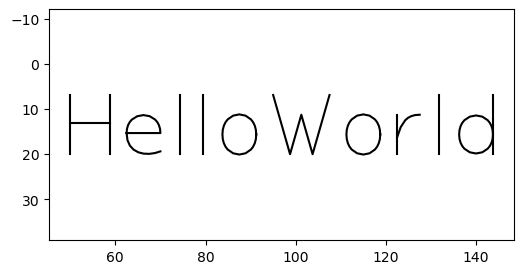
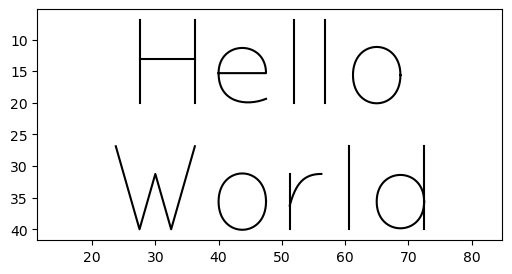
...

diff --git a/svgfont/svgfont.py b/svgfont/svgfont.py
@@ -24,16 +24,15 @@ import os
 
 class Glyph:
     """Glyph of a SVG font"""
-
-    def __init__(self, ch, adv, polylines):
+    def __init__(self, ch, adv, beziers):
         self.ch = ch
         self.adv = float(adv)
-        self.polylines = polylines
+        #self.polylines = polylines
+        self.beziers = beziers
 
 
 class Font:
     """A SVG font"""
-
     def __init__(self, family, units_per_em, glyphs, missing):
         self.family = family or ""
         self.units_per_em = float(units_per_em)
@@ -50,7 +49,7 @@ class Font:
 
 def load_font(svg_font_file, tol=0.5):
     """
-    Load an SVG `<font>` and convert each glyph outline into polylines.
+    Load an SVG `<font>` and convert each glyph outline into sequences of cubic Bezier curves.
     If `svg_font_file` does not end with “.svg”, it is resolved to a bundled font
     under `…/hershey/<name>.svg`.
 
@@ -102,8 +101,9 @@ def load_font(svg_font_file, tol=0.5):
             path = svg.parse_path(d)
             paths = split_compound_path(path)
             adv = float(mg.get("horiz-adv-x", str(default_adv)))
-            polylines = [path_to_polyline(path, tol) for path in paths]
-            missing = Glyph(None, adv, polylines)
+            beziers = [path_to_bezier_chain(path) for path in paths]
+            #polylines = [sample_bezier_chain(Cp, tol) for Cp in beziers]
+            missing = Glyph(None, adv, beziers)
 
     glyph_elems = (
         font_elem.findall("svg:glyph", ns) if ns else font_elem.findall("glyph")
@@ -118,21 +118,46 @@ def load_font(svg_font_file, tol=0.5):
         if d:
             path = svg.parse_path(d)
             paths = split_compound_path(path)
-            polylines = [path_to_polyline(path, tol) for path in paths]
-        glyphs[uni] = Glyph(uni, adv, polylines)
+            beziers = [path_to_bezier_chain(path) for path in paths]
+            #polylines = [sample_bezier_chain(Cp, tol) for Cp in beziers]
+
+        glyphs[uni] = Glyph(uni, adv, beziers)
 
     return Font(family, units_per_em, glyphs, missing)
 
 
-def text_polylines(
+
+def text_width(text, font, size=1.0, letter_spacing=0.0, line_height=1.25):
+    if type(font) == str:
+        font = load_font(font, **kwargs)
+
+    s = size / font.units_per_em
+    x, y = 0, 0
+    out = []
+    w = 0
+    for ch in text:
+        if ch == "\n":
+            x = pos[0]
+            y -= line_height * size
+            continue
+
+        g = font.get(ch)
+        x += (g.adv * s) + letter_spacing
+        w = max(w, x - letter_spacing)
+    return w
+
+
+def text_paths(
     text,
     font,
     size=1.0,
     pos=[0, 0],
     box=None,
     padding=0,
+    align="left",
     letter_spacing=0.0,
-    line_height=1.25,
+    line_height=1.0,
+    tol=0.1,
     **kwargs,
 ):
     """Geneate text as a list of polylines
@@ -142,6 +167,11 @@ def text_polylines(
     starting position `pos`. If `box` is given, the resulting polylines are
     uniformly transformed to fit inside the rectangle (optionally padded
     according to `padding`).
+
+    By default this function does adaptive sampling of the glyph Bezier curves,
+    which will give straight segments for initially linear segments. If the
+    `tol` parameter is set to zero, the function will return Bezier chains, i.e.
+    sequences of cubic Bezier control points.
 
     Args:
         text (str):
@@ -164,6 +194,10 @@ def text_polylines(
         line_height (float, default 1.25):
             Line spacing as a multiple of `size`. Each newline moves the baseline
             by `line_height * size` in the negative Y direction.
+        tol (float, default 0.5): Maximum geometric deviation used when flattening
+            curves to polylines, expressed in **font units** (smaller = more segments, higher fidelity).
+            If `0.0`, returns Bezier control points
+
         **kwargs:
             Extra keyword arguments forwarded to `load_font` when `font` is a string
             (e.g., `tol=...`).
@@ -175,27 +209,38 @@ def text_polylines(
             start/end point).
 
     """
-    if type(font)==str:
+    if type(font) == str:
         font = load_font(font, **kwargs)
 
     s = size / font.units_per_em
     x, y = pos
     out = []
 
-    for ch in text:
-        if ch == "\n":
-            x = 0.0
-            y -= line_height * size
-            continue
+    lines = text.splitlines()
 
-        g = font.get(ch)
-        if g.polylines:
-            for P in g.polylines:
-                PP = P * s
-                PP = PP + [x, y]
-                out.append(PP)
+    for i, line in enumerate(lines):
+        if align == "left":
+            x = pos[0]
+        else:
+            w = text_width(line, font, size, letter_spacing, line_height)
+            if align == "center":
+                x = pos[0] - w / 2
+            else:
+                x = pos[0] - w
 
-        x += (g.adv * s) + letter_spacing
+        y = pos[1] + (line_height * size) * i
+        for ch in line:
+            g = font.get(ch)
+            if g.beziers:
+                for P in g.beziers:
+                    PP = P * s
+                    PP = PP + [x, y]
+                    if tol > 0:
+                        out.append(sample_bezier_chain(PP, tol))
+                    else:
+                        out.append(PP)
+
+            x += (g.adv * s) + letter_spacing
 
     if box is not None:
         out = transform_to_rect(out, box, padding)
@@ -299,6 +344,7 @@ def decasteljau(pts, bez, tol, level=0):
 
 
 def sample_bezier_chain(Cp, tol):
+    ''' Sample a Bezier chain using Decasteljau's method'''
     Cp = np.array(Cp)
     pts = [Cp[0]]
     for i in range(0, len(Cp) - 1, 3):
@@ -530,6 +576,7 @@ def scaling_2d(xy, affine=True):
     m[0, 0] = xy[0]
     m[1, 1] = xy[1]
 
+
 def rect_in_rect_transform(src, dst, padding=0.0, axis=None):
     """Return homogeneous transformation matrix that fits src rect into dst"""
     fitted = rect_in_rect(src, dst, padding, axis)
@@ -592,4 +639,9 @@ def scaling_2d(xy, affine=True):
 
 
 def is_number(x):
+    return isinstance(x, numbers.Number)
+
+
+def is_number(x):
+    return isinstance(x, numbers.Number)
     return isinstance(x, numbers.Number)

diff --git a/svgfont/__init__.py b/svgfont/__init__.py
@@ -3,4 +3,8 @@
 # from importlib import reload
 # reload(svgfont)
 
-from .svgfont import load_font, text_polylines, rect, transform_to_rect
+from .svgfont import (load_font,
+                      rect,
+                      transform_to_rect,
+                      text_paths,
+                      text_width)
